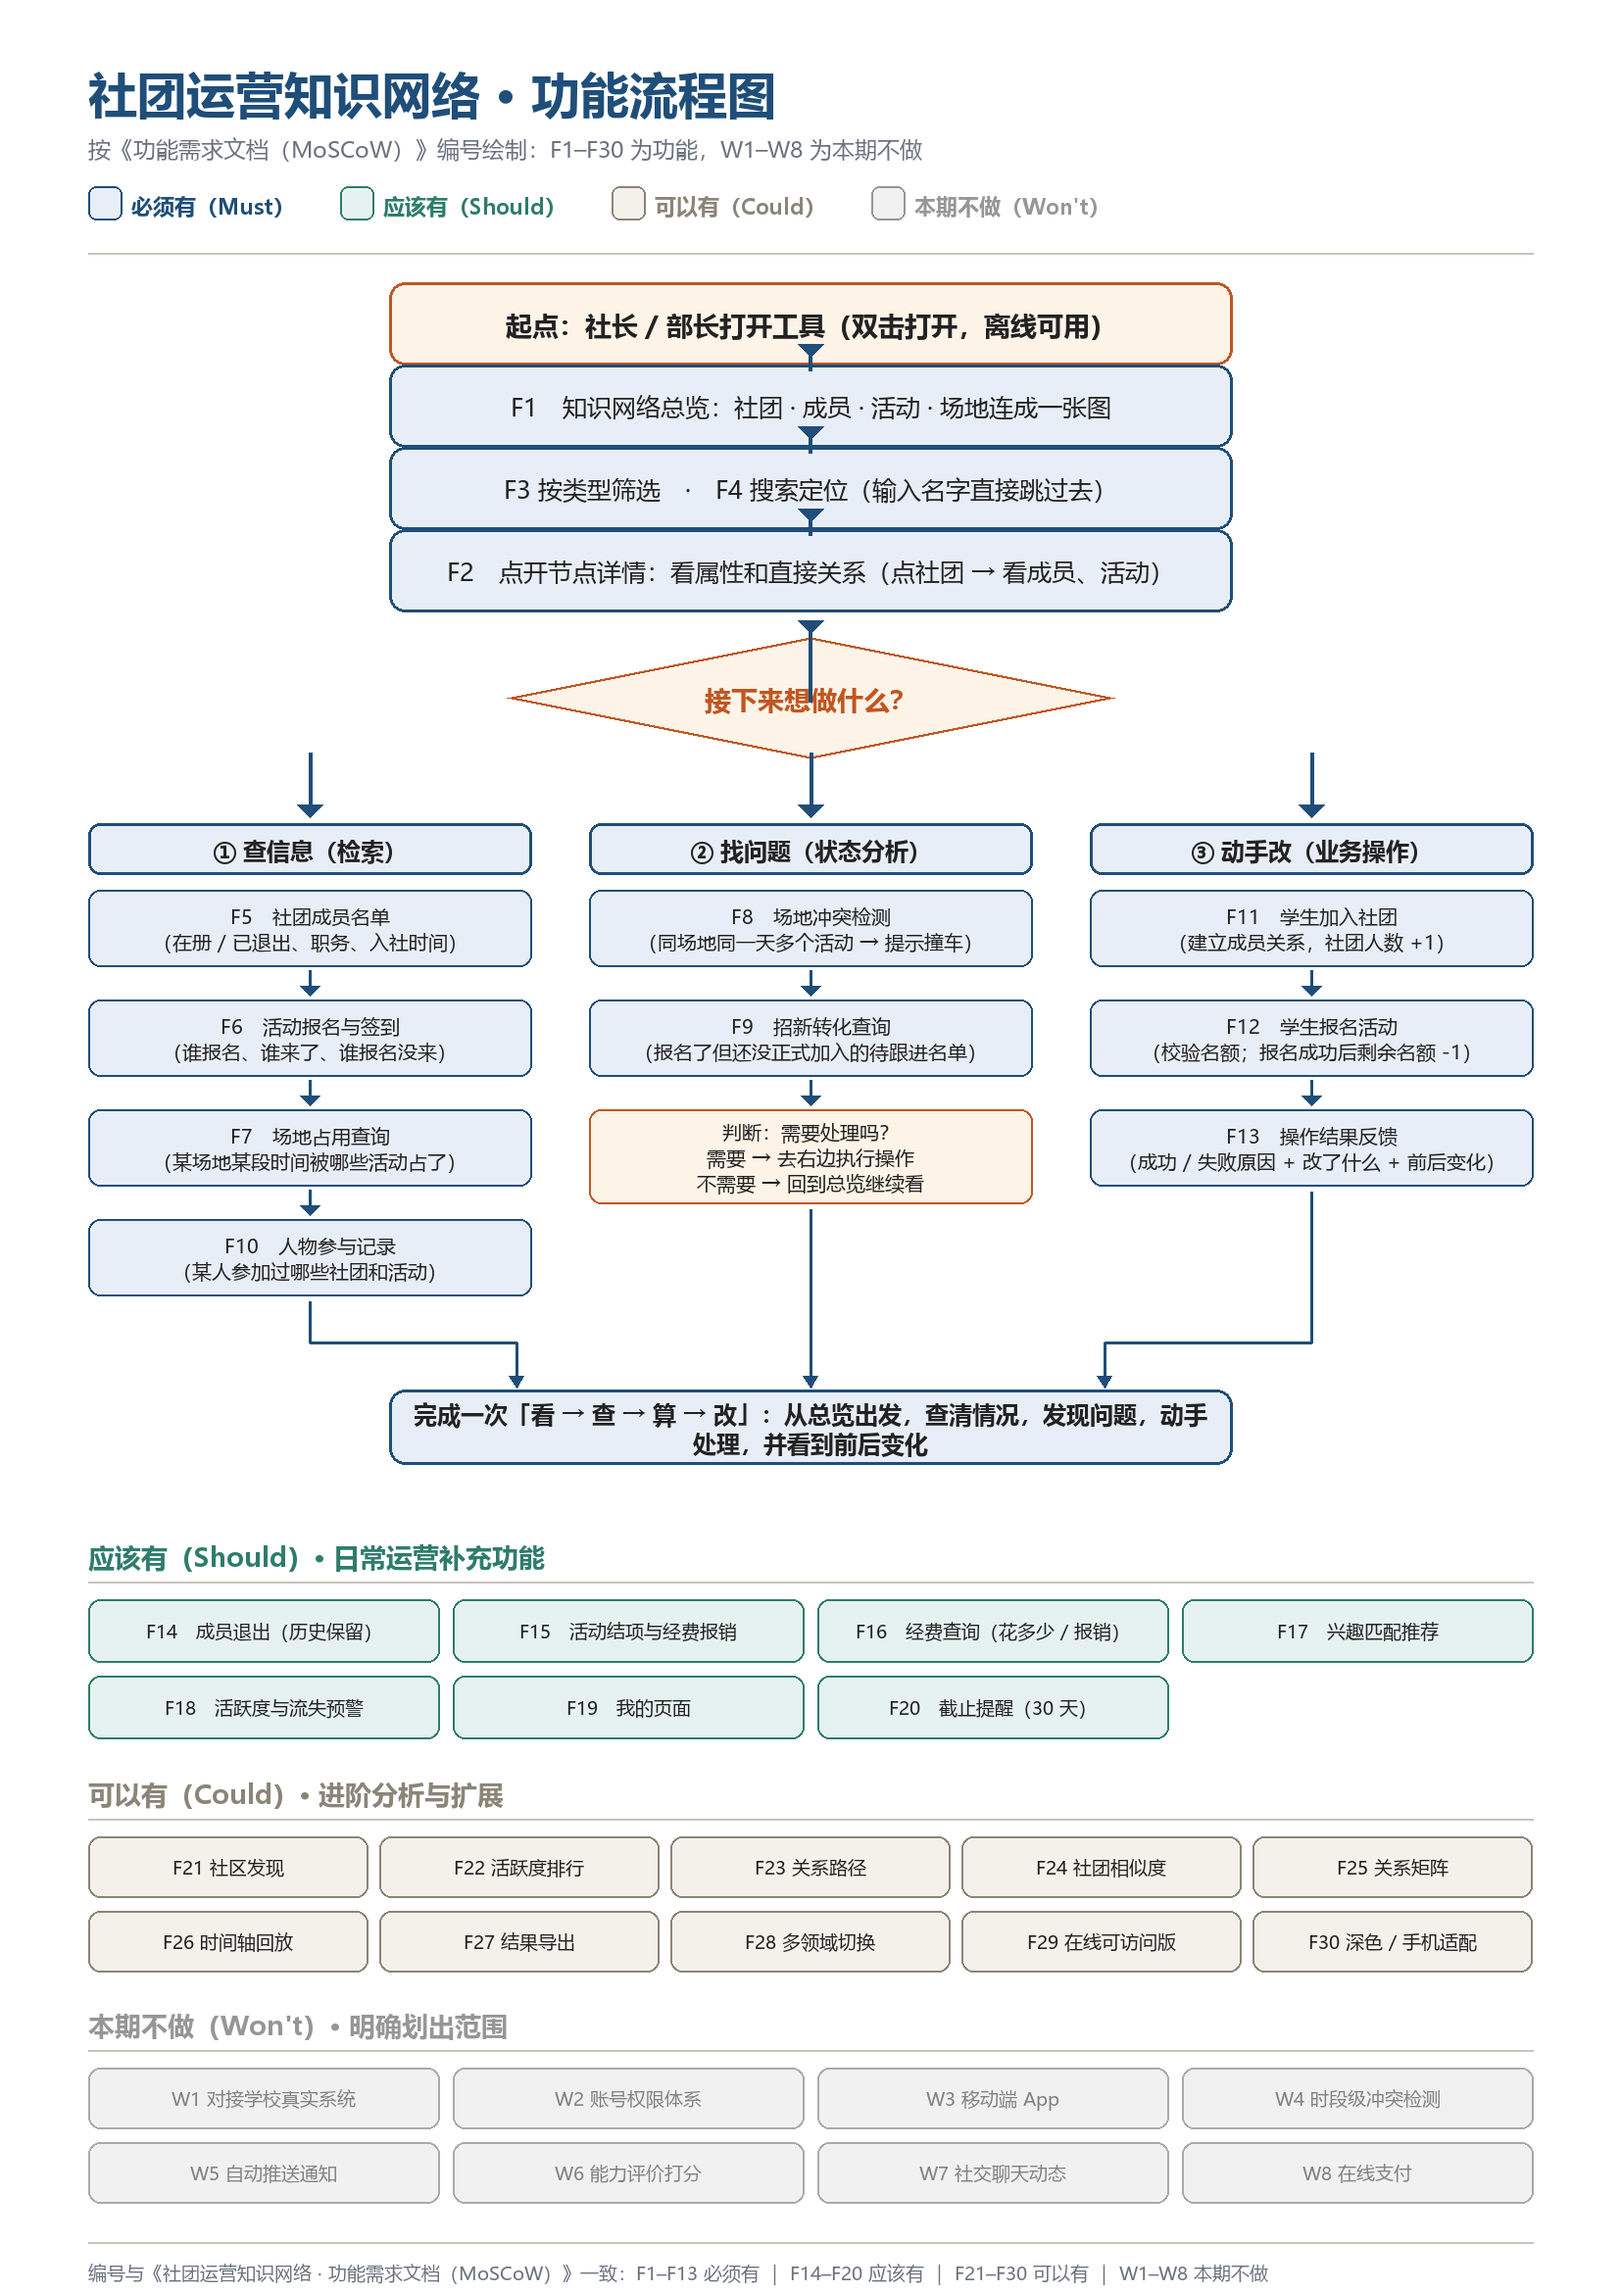
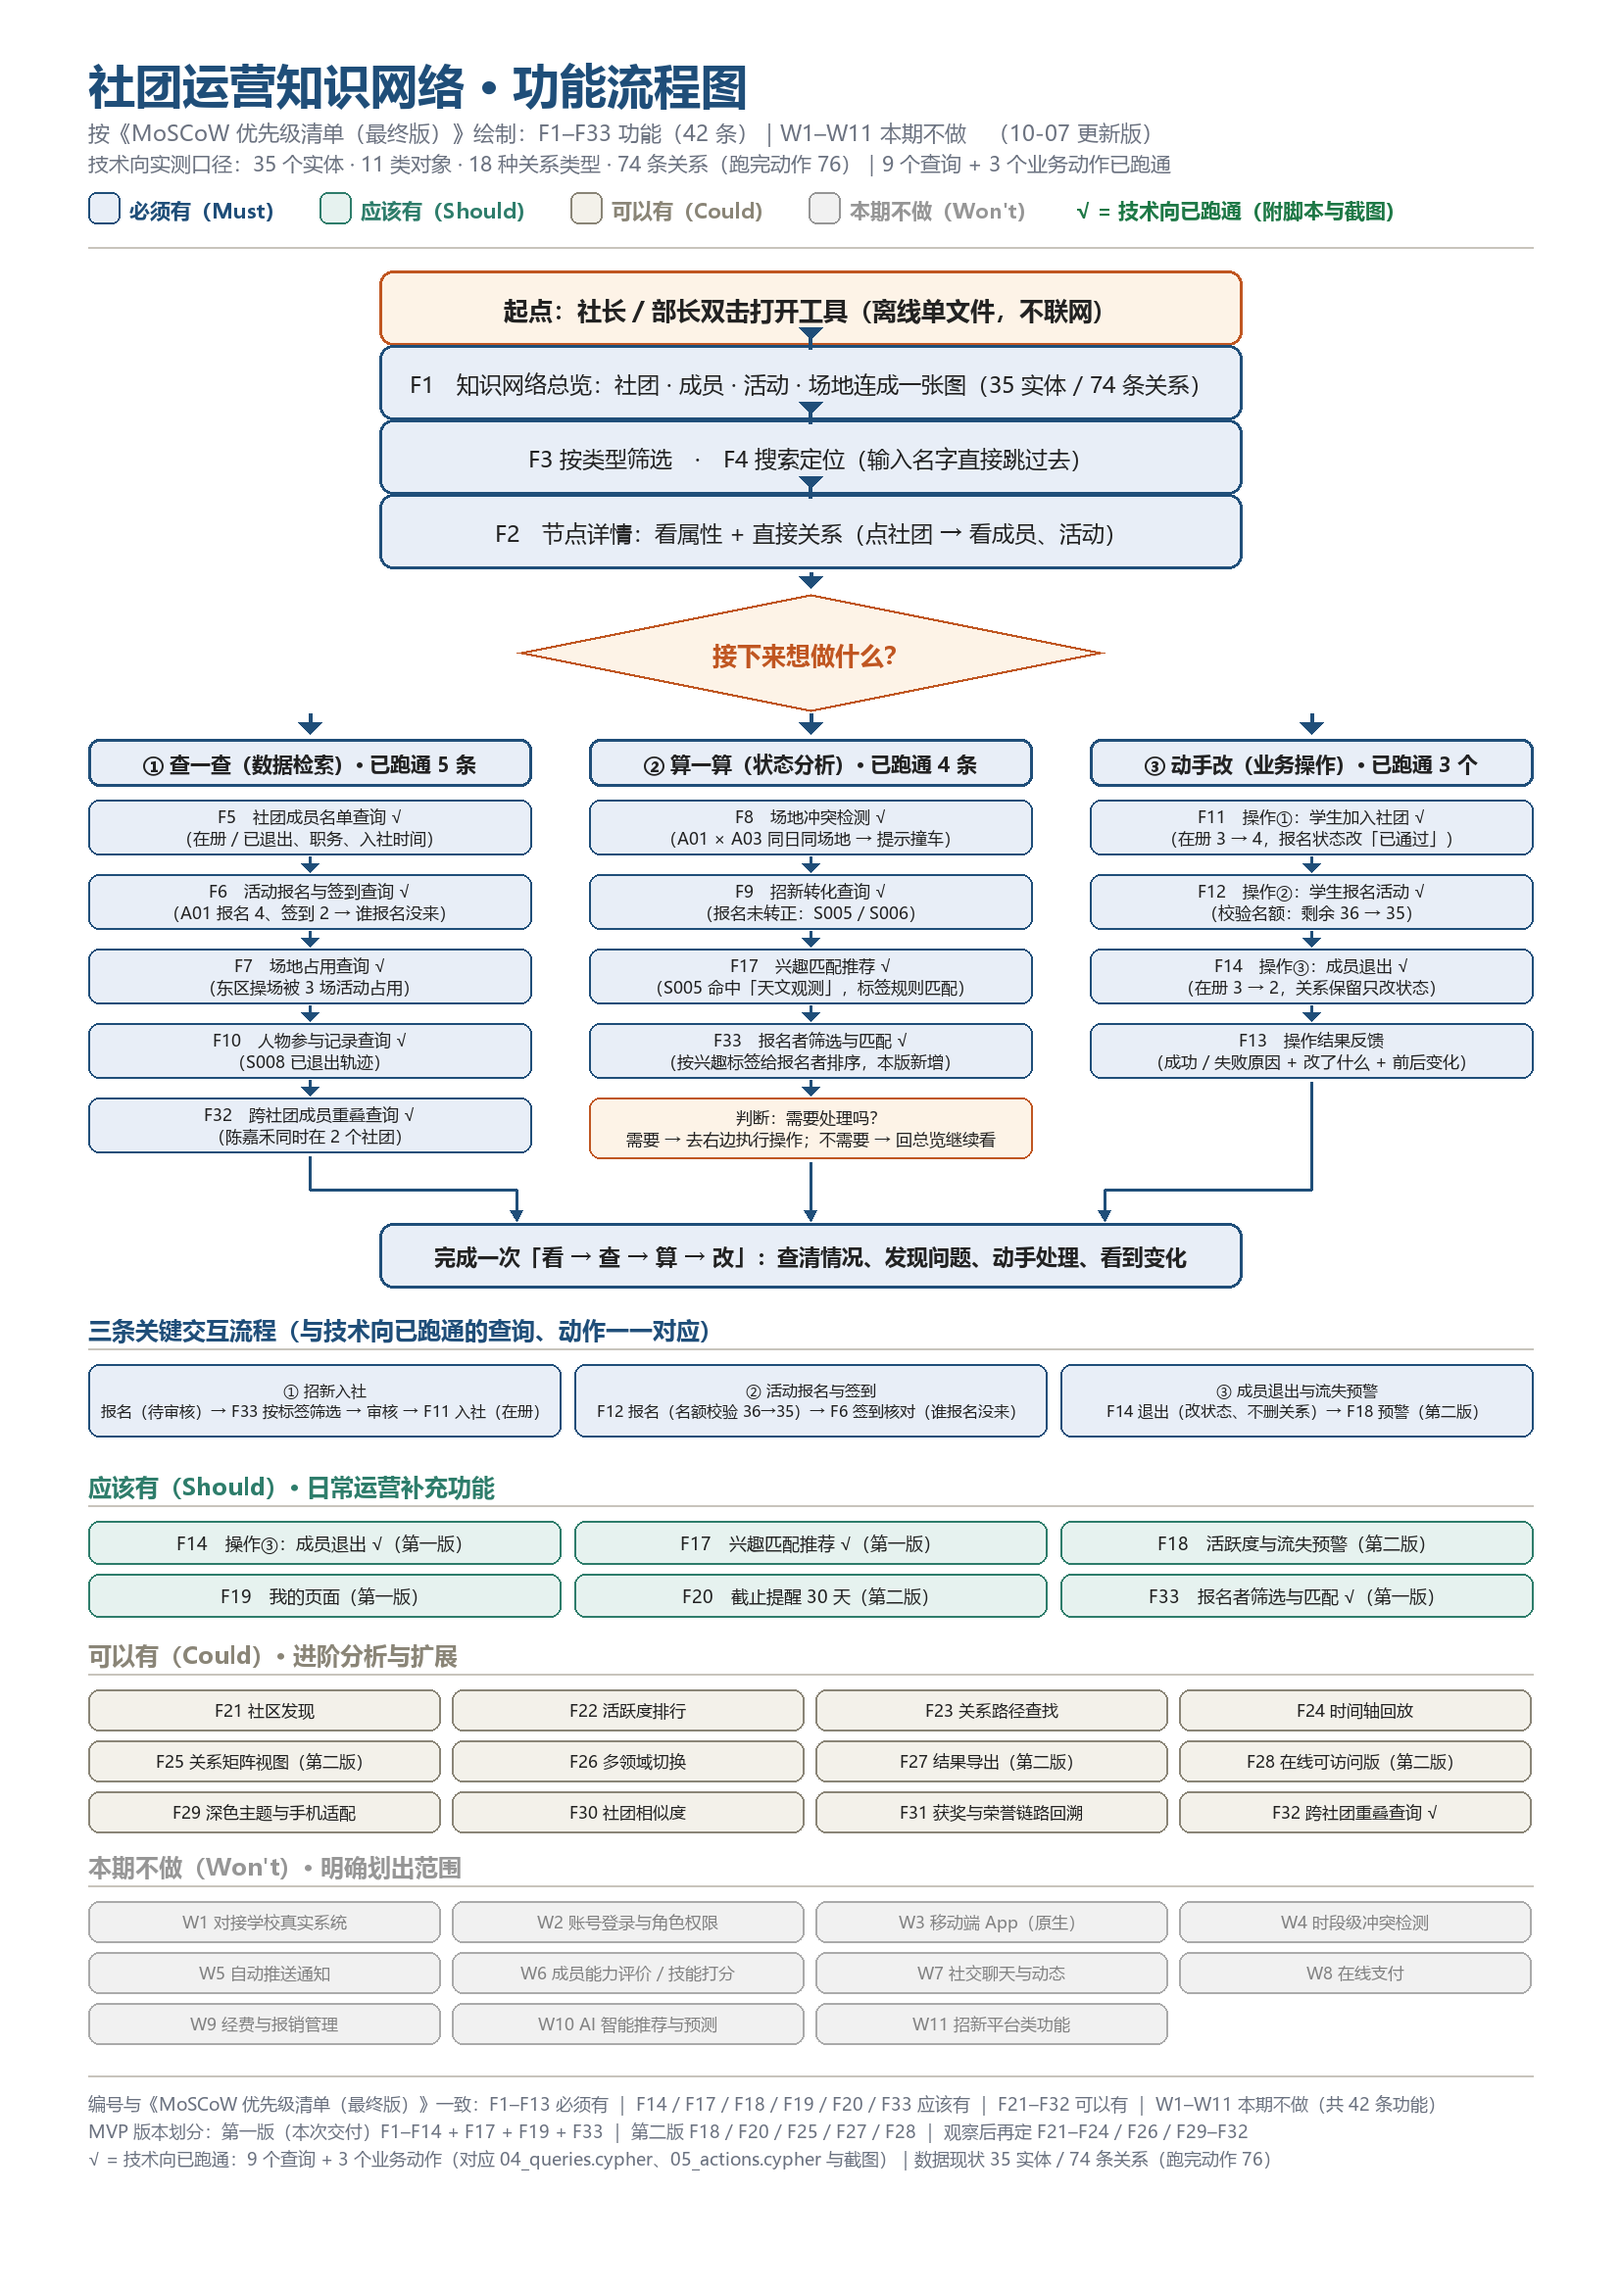
修复 CYPHER 25 下重复变量名导致第 2 段失败
现象（新沙箱 · CYPHER 25 比老版本严格）：
整段粘贴 00_一键运行.cypher 时，第 1 段约束全绿，第 2 段「35 个实体」报
Neo.ClientError.Statement.SyntaxError: Variable 'row' already declared（指向 "] AS row"），
第 3、4 段跟着失败。

原因：这些块之间没有分号，整段其实是「一条语句」——
  · 00_一键运行.cypher  第 2 段一条语句里 UNWIND [...] AS row 出现 11 次、第 3 段 6 次；
  · 02_seed_entities.cypher 一条语句里 11 次；03_seed_relations.cypher 一条语句里 6 次。
Cypher 不允许同一条语句里重复声明同名变量，老版本容忍，CYPHER 25 直接报错。

修法（只改别名，语句边界、数据、实体/关系条数全不动）：
  · cypher/00_一键运行.cypher    第 2 段 row→row2…row11（10 处），第 3 段 row→row2…row6（5 处）
  · cypher/02_seed_entities.cypher  row→row2…row11（10 处）
  · cypher/03_seed_relations.cypher row→row2…row6（5 处）
  源目录 03-技术向-实体数据与Cypher 下同名脚本同步修改，两边逐字节一致（SHA256 相同）。

顺带修正（不改数据，只让自检显示与注释一致）：
第 2 段末尾的自检行改为 count(DISTINCT n)。该语句里 11 个 UNWIND 会把行数相乘
（4×8×3×2×4×3×4×2×2×2×1 = 73728 行），原来 count(*) 会把「35」放大成行数的倍数。

静态检查：08-生成脚本（不用看）/verify_counts.py → PASS ✓ 35 实体 / 74 关系 / 18 种类型
（源目录副本同样 PASS）。

Changed region(s): [[0.0308, 0.0312, 0.9559, 0.9987], [0.6475, 0.2809, 0.6784, 0.3121], [0.4317, 0.9675, 0.4625, 0.9987]]

diff --git a/交付勾选表（10-07）.md b/交付勾选表（10-07）.md
@@ -1,0 +1,67 @@
+# 技术官交付勾选表（10-07 核对版）
+
+考题六《本体网络：为校园构建一张知识网络》· 技术向 ｜ 核对时间：2026-10-07 17:20
+依据：赛题任务书印刷页 20–22、`07-技术官交付（提交用）` 现有文件、`git` 状态、`03-技术向-实体数据与Cypher` 源目录。
+
+图例：✅ 已完成 ｜ ⚠ 已完成但需更新 ｜ ☐ 未完成
+
+## 一、赛题硬性要求（技术向：交 GitHub 仓库即完成考核，不参加答辩）
+
+| # | 赛题要求 | 交付物（在哪） | 状态 |
+| --- | --- | --- | --- |
+| 1 | 提交 GitHub 仓库 | `07-技术官交付（提交用）\`（本地仓库结构） | ☐ 未推送：本地已有 2 个提交，`git remote -v` 为空 |
+| 2 | 仓库含可视化原型 | `demo\知识网络图谱（离线中文版）.html`（单文件、不联网、无外链） | ✅ |
+| 2b | 同上，流程图 | `demo\功能流程图.png` | ✅ 已放回，并换成 **10-07 更新版**（F1–F33 / W1–W11，标出技术向已跑通项；旧图存 `09-历史版本（已被替代）`） |
+| 3 | 仓库含查询演示 | `cypher\04_queries.cypher`（9 个查询）＋ `cypher\06_演练步骤（照着一步步贴）.cypher` | ✅ |
+| 4 | 仓库含使用说明 | `README.md`＋`docs\README-使用说明.md`＋`docs\Neo4j 查询操作手册（新手照着做）.docx` | ✅ |
+| 5 | 仓库含开发日志与日程记录 | `docs\开发日志与日程记录.md`（9/30–10/7 逐天，含日程表与里程碑） | ✅ |
+| 6 | 最小实验①：录入 ≥20 个实体 | 35 个实体 / 11 类：`02_seed_entities.cypher`、`data\entities.csv`、`docs\实体清单（35个实体）.docx` | ✅ 1.75 倍 |
+| 7 | 最小实验②：跑通 ≥2 个查询场景 | 9 个：F5／F6／F7／F8／F9／F10／F17／F32／F33 | ✅ 4.5 倍 |
+| 8 | ≥2 个业务动作 + 前后关系变化 | 3 个：F11 加入社团／F12 报名活动（含名额校验）／F14 成员退出 + 6 张前后对比截图 | ✅ |
+| 9 | 本体文件（.owl／RDF-XML／JSON-LD 之一） | `ontology\club-ontology.jsonld`（11 类 / 18 关系 / 35 实体 / 74 关系 / 9 查询） | ✅ |
+| 10 | 一键建库脚本 | `cypher\00_一键运行.cypher`（54 条语句 = 11 约束 + 35 实体 + 属性补全 + 74 关系 + 自检） | ✅ |
+| 11 | 增量补丁与排错脚本 | `cypher\07_增量补C04.cypher`、`cypher\07_重置与排错.cypher` | ✅ |
+
+## 二、证据文件（截图 / 录屏）
+
+| 文件 | 证明什么 | 状态 |
+| --- | --- | --- |
+| `screenshots\01-实体数.png` | 实体 35（≥20） | ⚠ 现图是 **34**（旧口径）→ 需重拍 |
+| `screenshots\02-关系数.png` | 关系入库 | ⚠ 现图是 **73** → 需重拍成 **74** |
+| `screenshots\03-图谱视图.png` | 可视化（Neo4j 侧） | ⚠ 现图 **Nodes 33 / Relationships 73** → 需重拍成 34 / 74 |
+| `screenshots\04-场地冲突.png` | F8 冲突检测 ★最能打 | ☐ 未拍 |
+| `screenshots\05-招新转化.png` | F9 招新转化 ★最能打 | ☐ 未拍 |
+| `screenshots\06~11`（6 张） | 3 个动作执行前后对比（赛题硬要求） | ✅ 已拍，与 C04 无关，**不用重拍** |
+| `screenshots\12-报名未签到.png` | F6 报名与签到对不上 | ☐ 未拍（建议） |
+| `screenshots\13-报名者筛选.png` | F33 报名者筛选 ★最能打 | ☐ 未拍（建议） |
+| `screenshots\14-跨社团.png` | F32 跨社团重叠 | ☐ 未拍（建议） |
+| `screenshots\15-离线图谱.png` | 自研离线原型 | ✅ 已拍（今天补，文件名已修正） |
+| `演示录屏.mp4` | 2 分钟：跑查询 → 做动作 | ☐ 未录 |
+| `screenshots\截图说明（本次实际执行语句）.md`、`待拍清单与语句.md` | 每张对应语句与预期结果 | ✅ |
+
+## 三、提交动作与仓库卫生
+
+| 项 | 状态 |
+| --- | --- |
+| 本地 git 提交 | ✅ 2 个（初始提交 + 补跑者联盟／同步口径／填日志） |
+| 建 remote 并 push | ☐ 未做 |
+| 工作区干净（无未提交改动） | ☐ 有 3 处：`demo/功能流程图.png` 已更新待提交、`screenshots/15-离线图谱.png` 未入库、本勾选表未入库 |
+| `.gitignore` / `.gitattributes` | ✅ |
+| `03-技术向-实体数据与Cypher` 源目录与 `07` 交付目录一致 | ✅ 13 个同名文件逐字节一致（SHA-256） |
+| 数字口径一致（54 语句 / 35 实体 / 74 关系 / 76 动作后 / 9 查询 / 3 动作） | ✅ README、提交清单、脚本已同步 |
+| 提交清单自查项 | ☐ 还有 19 项未勾（多数对应上面未完成项） |
+
+## 四、两项需要留意的风险
+
+| 项 | 说明 | 状态 |
+| --- | --- | --- |
+| 35 / 74 是否在真实 Neo4j 里跑过 | 提交清单第 121 行自己写明："本次只做静态核对（关系条数逐块相加 = 74…），没有可用的 Neo4j 实例" → 重拍截图时顺手把库跑一遍就闭环了 | ☐ |
+| 官方截止时间与答辩场次 | 任务书写明"以纳新交流群通知为准" | ☐ |
+
+## 五、建议顺序（约 1 小时，不含录屏）
+
+1. 打开沙箱 → 跑 `cypher\07_增量补C04.cypher`（若库还是 34/73 旧口径）→ 用 `待拍清单与语句.md` 第 0 步确认 **35 | 74**
+2. 重拍 `01` / `02` / `03` 三张（只读，不改数据）
+3. 拍 `04` / `05`（必拍）；有余力再拍 `12` / `13` / `14`
+4. 把 `15-离线图谱.png` 加进 git；把 `功能流程图.png` 放回 `demo\`（或改 README 三处引用）；`git add -A && git commit`；建仓库并 `git push -u origin main`
+5. 有空再录 2 分钟 `演示录屏.mp4`
